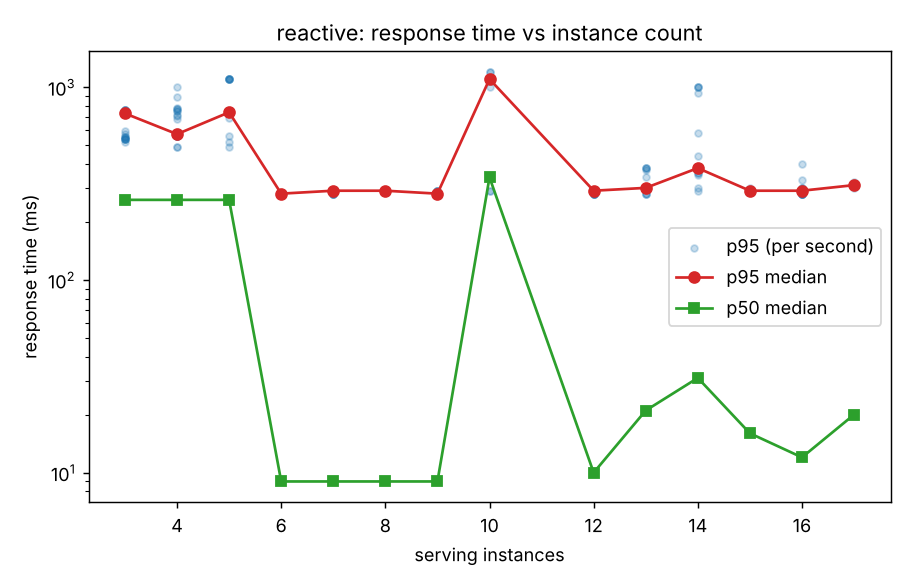
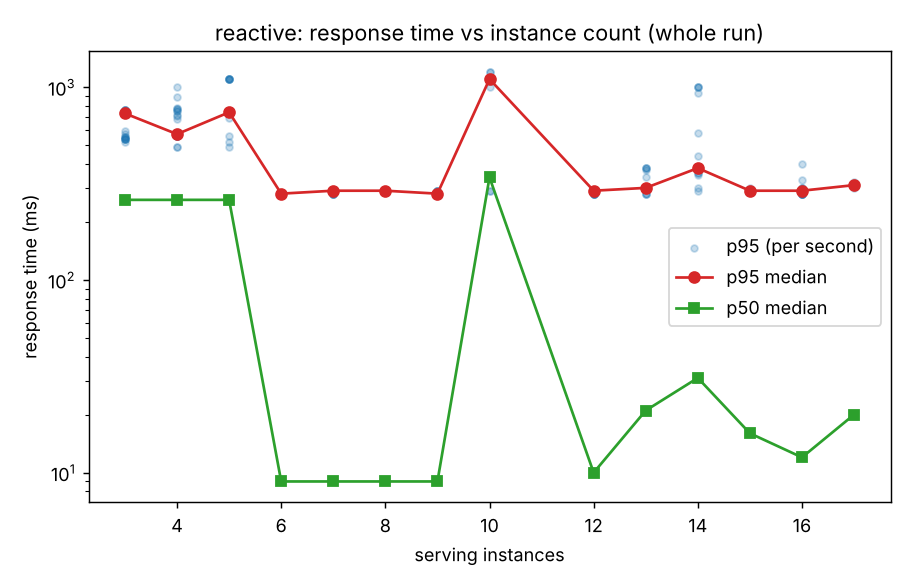
Analysis: add peak-load-only latency vs instance count plot and per-count table
Claude-Session: https://claude.ai/code/session_01T6EaWPT18V5pgZi3SBoZLG

Changed region(s): [[0.2462, 0.0308, 0.8308, 0.0923]]

diff --git a/experiments/analyze.py b/experiments/analyze.py
@@ -96,8 +96,29 @@ def analyse(run, peak_start, peak_end, price=0.0208):
     ax.plot(by.index, by["p95"], "o-", color="tab:red", label="p95 median")
     ax.plot(by.index, by["p50"], "s-", color="tab:green", label="p50 median")
     ax.set_xlabel("serving instances"); ax.set_ylabel("response time (ms)"); ax.set_yscale("log")
-    ax.set_title(f"{run}: response time vs instance count"); ax.legend()
+    ax.set_title(f"{run}: response time vs instance count (whole run)"); ax.legend()
     fig.tight_layout(); fig.savefig(os.path.join(d, "latency_vs_instances.png"), dpi=130); plt.close(fig)
+
+    # Peak-load only: offered load is (nearly) constant here, so latency differences come from the fleet size,
+    # not from the load changing. This is the clean version of the required plot.
+    pk = g[g["users"] >= 0.9 * g["users"].max()]
+    if len(pk):
+        by = pk.groupby("ready")[["p50", "p95", "p99"]].median()
+        n = pk.groupby("ready").size()
+        fig, ax = plt.subplots(figsize=(7.5, 4.8))
+        ax.scatter(pk["ready"], pk["p95"], alpha=.25, s=14, color="tab:red", label="p95 (per second)")
+        ax.plot(by.index, by["p95"], "o-", color="tab:red", label="p95 median")
+        ax.plot(by.index, by["p50"], "s-", color="tab:green", label="p50 median")
+        for k in by.index:
+            ax.annotate(f"n={n[k]}s", (k, by.loc[k, "p95"]), textcoords="offset points", xytext=(6, 8), fontsize=8)
+        ax.set_xlabel("serving (healthy) instances"); ax.set_ylabel("response time (ms)"); ax.set_yscale("log")
+        ax.set_xticks(sorted(by.index))
+        ax.set_title(f"{run}: response time vs instance count at peak load (~{int(pk['users'].max())} req/s)")
+        ax.legend(); fig.tight_layout()
+        fig.savefig(os.path.join(d, "latency_vs_instances_peak.png"), dpi=130); plt.close(fig)
+        summary["peak_by_instances"] = {int(k): {"seconds": int(n[k]), "p50_ms": float(by.loc[k, "p50"]),
+                                                  "p95_ms": float(by.loc[k, "p95"])} for k in by.index}
+        json.dump(summary, open(os.path.join(d, "summary.json"), "w"), indent=2)
     print(json.dumps(summary, indent=2))
 
 
